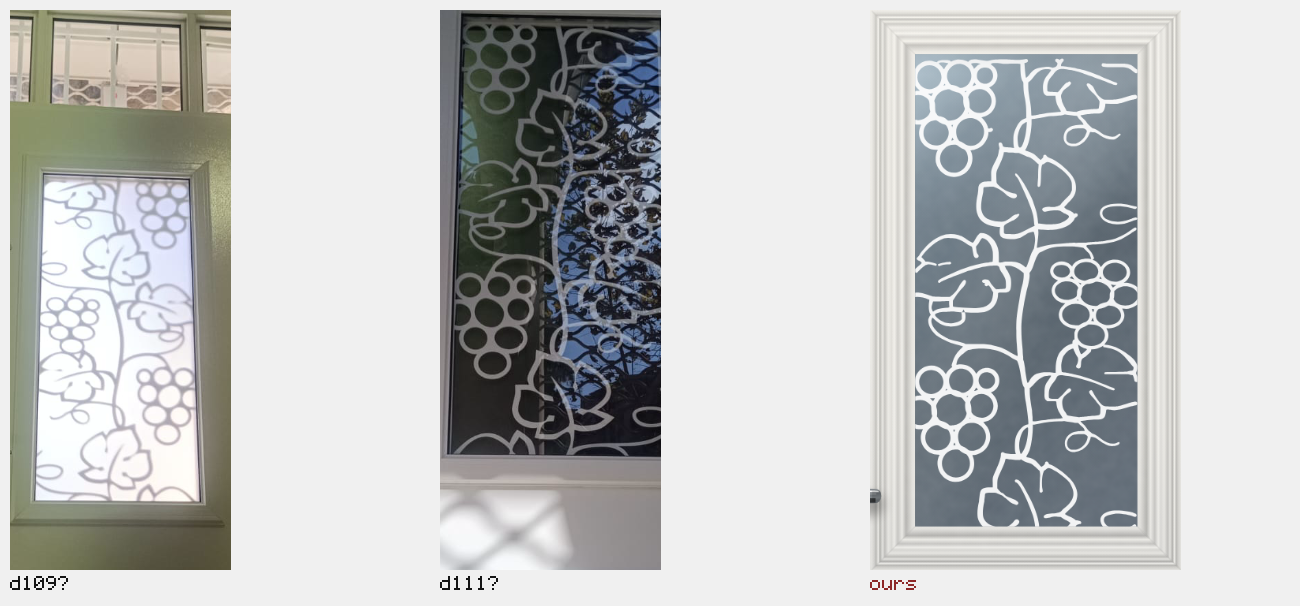
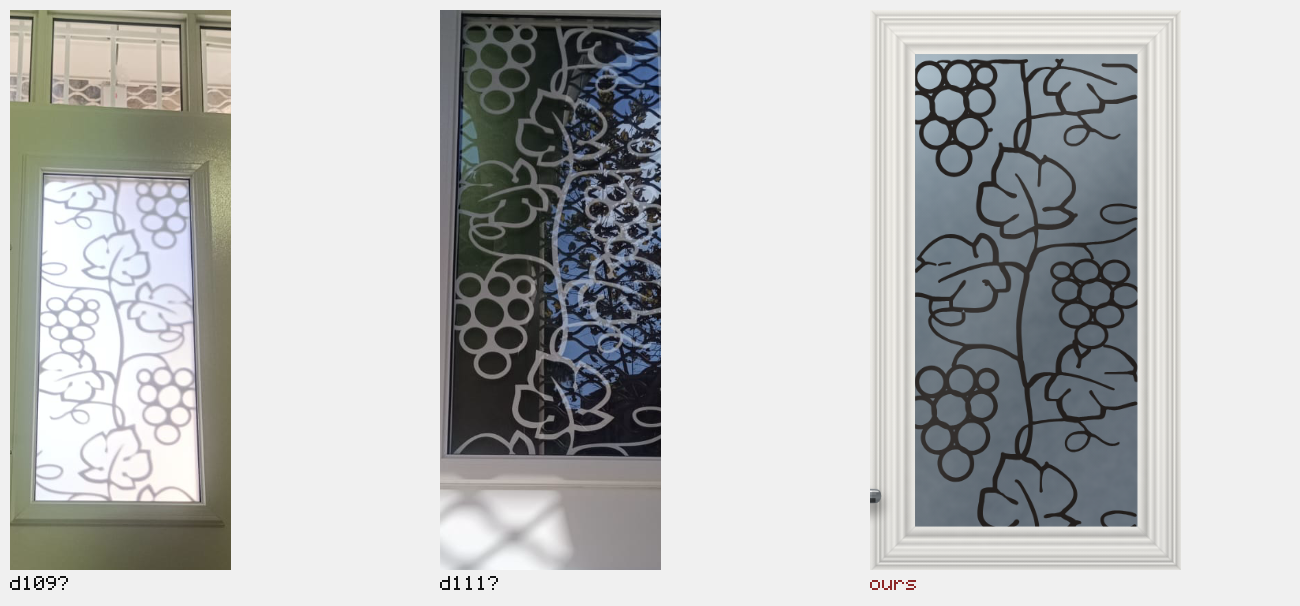
The navigator's nine marks are the things their steps sell
The owner's son: "draw better versions of them that really represent the
actual content of the section and not some random circles and squares."
Six of the nine were a rectangle with something inside it, and at 21 px a
rectangle with something inside is a rectangle.

Now, each the object the step is about:
  fit     a door standing ajar in its opening, on the floor
  colour  a fan deck of swatches on its rivet (choosing off a chart)
  lock    the lever on its backplate, the keyway under it
  pz      a hinge with a glint - the finish reaches hinges and lever
  face    a door-proportioned leaf with a panel over two strips, and a knob
  glass   a pane at a slant with glare and a vine leaf
  grip    the bar on two standoffs off the door's edge, with its length
  mk      the frame alone, with its thickness, open at the foot
  sum     the order sheet with a tick

How the drafts failed, measured with the audit's own pairwise raster (floor
0.50), not by eye: the first draft had face ~ glass 0.45 and glass ~ sum
0.47 - three tall rectangles at one place, whatever was inside them. A
square pane then met fit at 0.48; a receipt outline for the summary met
face at 0.51. What fixed it was the OUTLINE: the pane went to a slant, the
only one on the rail, and face narrowed to a door's proportion (0.6 wide
read as a tablet) and grew a knob. Also cut on critique: a second "+"
sparkle on the hinge (read as "add"), screw dots on its leaf (one pixel),
[…]

Changed region(s): [[0.7077, 0.0891, 0.8923, 0.8614]]

diff --git a/js/icons.js b/js/icons.js
@@ -64,52 +64,71 @@
             a grid at 21 px is `mk`'s nested pair with more lines in it.
    Worst pair after: 0.63. The comparison is asserted in `tools/audit.mjs`;
    it is the only instrument that can see this class of fault. */
+/* ⚠ ALL NINE REDRAWN ON 27.9.2026, on the owner's son's word: *"draw better
+   versions of them that really represent the actual content of the section
+   and not some random circles and squares."* Six of the nine were a rectangle
+   with something inside, and at 21 px a rectangle with something inside is a
+   rectangle. Each mark is now the THING the step sells, drawn the way a
+   stranger names it:
+     fit     a door standing ajar in its opening, on the floor — the door
+             itself, and which way it opens (the step's two questions)
+     colour  a fan deck of swatches on its rivet: choosing a shade off a chart,
+             which is what the step is (the drop said "paint", not "choose")
+     lock    the lever on its backplate with the keyway under it — the lock
+             furniture as it stands on the door
+     pz      a hinge with a glint: the finish reaches the hinges and the lever,
+             and the glint is what says METAL FINISH rather than "a hinge"
+     face    a door with a panel over two strips — panels or metal strips
+     glass   a pane seen at a slant, with a glare and a leaf of the vine design
+             on it — glass, and what goes on it
+     grip    the pull bar on its two standoffs off the door's edge, with the
+             arrow of its length (the step asks the length)
+     mk      the frame alone, with its thickness, standing on the floor: the
+             משקוף without the door in it
+     sum     the order sheet, folded corner and a tick: the door you built
+   ⚠ HOW THE DRAFTS FAILED, measured with the audit's own pairwise raster
+   (below, floor 0.50): the first draft had face ~ glass 0.45 and glass ~ sum
+   0.47 — three tall rectangles in one place, whatever was inside them; a
+   square pane then met fit at 0.48, and a receipt outline for sum met face at
+   0.51. What fixed it was OUTLINE, not content: the pane went to a slant (no
+   other mark has one), face narrowed to a door's proportion (0.48, the leaf's
+   is 0.42) and grew a knob, because at 0.6 wide it read as a tablet. Worst
+   pair after: fit ~ mk 0.60 (the old set's was 0.63; both over the floor).
+   Only path, circle and rect — the audit re-draws these with
+   `vector-effect` added to exactly those three. */
 export const SECTION_ICON = {
-  /* HOW BIG THE OPENING IS: the ruler every joiner's drawing uses. It was a
-     door with the arrow underneath, and the door was the whole problem — at
-     21 px it was the same rectangle as the summary's page. */
-  fit:    '<path d="M4.4 4.4v15.2M19.6 4.4v15.2"/><path d="M4.4 12h15.2"/>'
-        + '<path d="m7.4 9.4-3 2.6 3 2.6M16.6 9.4l3 2.6-3 2.6"/>',
-  /* THE FRAME: the casing outside, the opening inside, drawn as one section
-     through the head. Two nested rectangles say "a frame round a hole"; a
-     cross says nothing. Shared with `SPEC_ICON.mashkof`. */
-  mk:     '<path d="M3.2 4.6h17.6v14.8H3.2Z"/><path d="M7.4 8.8h9.2v10.6H7.4Z"/>',
-  /* a paint drop. Shared with `SPEC_ICON.colour` since 15.9 */
-  colour: '<path d="M12 3.4 6.6 10a7 7 0 1 0 10.8 0Z"/><path d="M5.4 14.6h13.2"/>',
-  /* a panelled face */
-  face:   '<path d="M5 3.6h14v16.8H5Z"/><path d="M8.4 6.6h7.2v4.4H8.4Z"/>'
-        + '<path d="M8.4 13.6h7.2v3.8H8.4Z"/>',
-  /* A GLAZED LIGHT: a transom across the head and two streaks of reflection
-     below it. The streaks are what say GLASS — the four-pane grid this used to
-     draw said "a divided rectangle", which at 21 px is `mk` with more lines.
-     ⚠ The sill was dropped, not moved: a wide rule under a landscape pane is a
-     laptop and a narrow one is a monitor stand. Both were tried and looked at,
-     and both were worse than no rule at all. */
-  glass:  '<path d="M4.4 5.4h15.2v11.2H4.4Z"/><path d="M4.4 8.6h15.2"/>'
-        + '<path d="M10 10.4 7.4 14M15.4 10.4 11.6 15"/>',
-  /* THE PULL BAR: the leaf's edge on the left, the bar standing off it on two
-     brackets. The bar has to be beside something for the standoffs to read as
-     standoffs — on its own it was a line with two ticks. */
-  grip:   '<path d="M4.4 3.6h5v16.8h-5"/><path d="M15.8 5.2v13.6"/>'
-        + '<path d="M9.4 8h6.4M9.4 16h6.4"/>',
-  /* THE LOCK: a keyhole. A round case over a tapered slot is the one mark on
-     this page a stranger names without being told, and the step it heads is
-     the lock furniture. */
-  lock:   '<path d="M12 4.4a7.4 7.4 0 0 0-7.4 7.4v7.8h14.8v-7.8A7.4 7.4 0 0 0 12 4.4Z"/>'
-        + '<path d="M12 9.4a2 2 0 1 0 0 4 2 2 0 0 0 0-4Z"/>'
-        + '<path d="m11 13.2-.8 3.6h3.6l-.8-3.6"/>',
-  /* THE FINISH: a lever handle, with a highlight along its shank saying the
-     choice is which METAL. Two concentric circles read as a paint swatch, and
-     this is the one step whose subject is not colour but material.
-     Shared with `SPEC_ICON.pirzul`. */
-  pz:     '<path d="M14.6 12a2.6 2.6 0 1 0-5.2 0 2.6 2.6 0 0 0 5.2 0Z"/>'
-        + '<path d="M14.6 12h4.8a1.8 1.8 0 0 1 0 3.6"/>'
-        + '<path d="M9.4 12H4.6"/><path d="M6.8 8.6h2.4"/>',
-  /* A SHEET OF PAPER WITH FIGURES ON IT, and the folded corner is the whole
-     point of it: a plain rectangle with three lines inside was the same
-     picture as the door on the first step. */
-  sum:    '<path d="M6.6 3.6h7.4l3.4 3.4v13.4H6.6Z"/><path d="M14 3.6v3.4h3.4"/>'
-        + '<path d="M9.4 11.4h5.2M9.4 14.6h5.2M9.4 17.8h3"/>',
+  fit:    '<path d="M4.6 20.6V3.4h14.8v17.2"/><path d="M2.8 20.6h18.4"/>'
+        + '<path d="M4.6 3.4 12.4 5.6v13L4.6 20.6Z"/><path d="M10.4 12.2h.01"/>',
+  /* the front swatch whole, the two behind it only where they show */
+  colour: '<path d="M9.7 17.9V5.9a2.3 2.3 0 0 1 4.6 0v12a2.3 2.3 0 0 1-4.6 0Z"/>'
+        + '<path d="M9.7 9.6h4.6M9.7 13.4h4.6"/><path d="M12 17.9h.01"/>'
+        + '<path d="M9.8 20.2 2.3 9.3a2.3 2.3 0 0 1 3.8-2.6l3.6 5.4"/>'
+        + '<path d="M14.2 20.2l7.5-10.9a2.3 2.3 0 0 0-3.8-2.6l-3.6 5.4"/>',
+  lock:   '<rect x="5.6" y="3.2" width="5.8" height="17.6" rx="2.9"/>'
+        + '<path d="M11.4 6.4h7a1.7 1.7 0 0 1 0 3.4h-7"/>'
+        + '<circle cx="8.5" cy="14.2" r="1.2"/><path d="M8.5 15.4v2.4"/>',
+  /* ⚠ the glint is ONE four-point star. A second, smaller "+" beside it read
+     as "add" at 21 px, and screw dots on the leaf were single pixels. */
+  pz:     '<path d="M9.4 5.4H4.2v13.2h5.2"/><rect x="9.4" y="3.4" width="3.2" height="17.2" rx="1.6"/>'
+        + '<path d="M9.4 9.4h3.2M9.4 14.6h3.2"/>'
+        + '<path d="M17.8 7.4c.4 3.2 1.6 4.4 4.4 4.6-2.8.2-4 1.4-4.4 4.6-.4-3.2-1.6-4.4-4.4-4.6 2.8-.2 4-1.4 4.4-4.6Z"/>',
+  face:   '<rect x="7.2" y="2.4" width="9.6" height="19.2" rx=".6"/><path d="M9.6 5h4.8v6.2H9.6Z"/>'
+        + '<path d="M9.6 15.2h4.8M9.6 18.4h4.8"/><path d="M14.6 13.2h.01"/>',
+  /* ⚠ A SLANT ON A SQUARE-ON PAGE, deliberately and only here: the rule in
+     CLAUDE.md §4 is about the door's drawing. A glazed pane seen square-on is
+     a rectangle, and the rail already had five. */
+  glass:  '<path d="M8.2 3.4h12.4l-4.8 17.2H3.4Z"/>'
+        + '<path d="M16.4 6.6l-3.4 3.8M16 10.8l-1.6 1.8"/>'
+        + '<path d="M7.4 17.4c1.2-.2 2.2-1.2 2.6-2.8-1.6-.2-2.6.9-2.6 2.8Z"/>',
+  grip:   '<rect x="3.2" y="2.8" width="2.2" height="18.4"/><path d="M5.4 6.8h6.2M5.4 17.2h6.2"/>'
+        + '<rect x="11.6" y="4.2" width="3" height="15.6" rx="1.5"/>'
+        + '<path d="M19.6 4.2v15.6M18 5.8l1.6-1.6 1.6 1.6M18 18.2l1.6 1.6 1.6-1.6"/>',
+  /* open at the foot: two nested CLOSED rectangles, which this was, are a
+     picture frame or a monitor */
+  mk:     '<path d="M3.4 20.6V3.2h17.2v17.4"/><path d="M7.8 20.6V7.6h8.4v13"/>'
+        + '<path d="M1.8 20.6h20.4"/>',
+  sum:    '<path d="M5.4 3h8.8l4.4 4.4V21H5.4Z"/><path d="M14.2 3v4.4h4.4"/>'
+        + '<path d="m8.4 14 2.4 2.6 4.8-5.4"/>',
 };
 
 export function sectionIcon(key) {
@@ -160,7 +179,10 @@ export function sectionIcon(key) {
    same thing better than half a filled disc and moved it away from `window`.
    Worst pair before 0.43, after 0.55. */
 export const SPEC_ICON = {
-  colour:  '<path d="M12 3.4 6.6 10a7 7 0 1 0 10.8 0Z"/><path d="M5.4 14.6h13.2"/>',
+  /* ⚠ FIVE ROWS SHARE THEIR STEP'S MARK BY REFERENCE, 27.9 — one idea, one
+     mark, and a reference cannot come apart the way two copies of a string
+     did. Worst spec pair after: colour ~ grille 0.54 at 18 px. */
+  colour:  SECTION_ICON.colour,
   window:  '<path d="M4.6 5h14.8v11.4H4.6Z"/><path d="M12 5v11.4M4.6 10.7h14.8"/>',
   glazing: '<path d="M3.4 6.2h7.2v11.6H3.4Z"/><path d="M13.4 6.2h7.2v11.6h-7.2Z"/>',
   /* the ironwork itself, not the pane it sits in */
@@ -170,12 +192,9 @@ export const SPEC_ICON = {
   /* the horizontal bow, 26.9.2026: a bar lying across two posts — the handle's
      mark turned on its side would be the handle's mark */
   grab:    '<path d="M4.4 8.6h15.2v3.4H4.4Z"/><path d="M8 12v5.4M16 12v5.4"/>',
-  /* a key going into the case */
-  lockset: '<circle cx="7.4" cy="12" r="2.4"/><path d="M9.8 12h3.8"/>'
-         + '<path d="M13.6 9.2h4.4v5.6h-4.4Z"/>',
+  lockset: SECTION_ICON.lock,
   detail:  '<path d="M5.2 4.4h13.6v15.2H5.2Z"/><path d="M8.4 7.6h7.2v8.8H8.4Z"/>',
-  size:    '<path d="M4.4 4.4v15.2M19.6 4.4v15.2"/><path d="M4.4 12h15.2"/>'
-         + '<path d="m7.4 9.4-3 2.6 3 2.6M16.6 9.4l3 2.6-3 2.6"/>',
+  size:    SECTION_ICON.fit,
   handing: '<path d="M6 3.8h12v16.4H6Z"/><path d="m14.6 8.6 3.4 3.4-3.4 3.4"/>',
   /* ⚠ FOUR ROWS HAD NO MARK, AND THE GAP WAS VISIBLE. `specRows` can return
      twelve keys and this table held nine, so the DEFAULT door — eight rows —
@@ -187,9 +206,8 @@ export const SPEC_ICON = {
      Drawn to match their own step's circle rather than invented afresh: the
      frame is the same nested pair, the פרזול the same lever. One idea, one
      mark, wherever it appears. */
-  mashkof: '<path d="M3.4 5h17.2v14H3.4Z"/><path d="M7.4 9h9.2v10H7.4Z"/>',
-  pirzul:  '<path d="M14.4 12a2.4 2.4 0 1 0-4.8 0 2.4 2.4 0 0 0 4.8 0Z"/>'
-         + '<path d="M14.4 12h4.6a1.7 1.7 0 0 1 0 3.4"/><path d="M9.6 12H5"/>',
+  mashkof: SECTION_ICON.mk,
+  pirzul:  SECTION_ICON.pz,
   stripes: '<path d="M4.6 7.4h14.8M4.6 12h14.8M4.6 16.6h14.8"/>',
   /* the קודן's own case — the one of the two a stranger names */
   speciallock: '<rect x="7.4" y="3.6" width="9.2" height="16.8" rx="4.6"/>'

diff --git a/assets/bundle.js b/assets/bundle.js
@@ -8800,42 +8800,23 @@ ${body}
 
   // js/icons.js
   var SECTION_ICON = {
-    /* HOW BIG THE OPENING IS: the ruler every joiner's drawing uses. It was a
-       door with the arrow underneath, and the door was the whole problem — at
-       21 px it was the same rectangle as the summary's page. */
-    fit: '<path d="M4.4 4.4v15.2M19.6 4.4v15.2"/><path d="M4.4 12h15.2"/><path d="m7.4 9.4-3 2.6 3 2.6M16.6 9.4l3 2.6-3 2.6"/>',
-    /* THE FRAME: the casing outside, the opening inside, drawn as one section
-       through the head. Two nested rectangles say "a frame round a hole"; a
-       cross says nothing. Shared with `SPEC_ICON.mashkof`. */
-    mk: '<path d="M3.2 4.6h17.6v14.8H3.2Z"/><path d="M7.4 8.8h9.2v10.6H7.4Z"/>',
-    /* a paint drop. Shared with `SPEC_ICON.colour` since 15.9 */
-    colour: '<path d="M12 3.4 6.6 10a7 7 0 1 0 10.8 0Z"/><path d="M5.4 14.6h13.2"/>',
-    /* a panelled face */
-    face: '<path d="M5 3.6h14v16.8H5Z"/><path d="M8.4 6.6h7.2v4.4H8.4Z"/><path d="M8.4 13.6h7.2v3.8H8.4Z"/>',
-    /* A GLAZED LIGHT: a transom across the head and two streaks of reflection
-       below it. The streaks are what say GLASS — the four-pane grid this used to
-       draw said "a divided rectangle", which at 21 px is `mk` with more lines.
-       ⚠ The sill was dropped, not moved: a wide rule under a landscape pane is a
-       laptop and a narrow one is a monitor stand. Both were tried and looked at,
-       and both were worse than no rule at all. */
-    glass: '<path d="M4.4 5.4h15.2v11.2H4.4Z"/><path d="M4.4 8.6h15.2"/><path d="M10 10.4 7.4 14M15.4 10.4 11.6 15"/>',
-    /* THE PULL BAR: the leaf's edge on the left, the bar standing off it on two
-       brackets. The bar has to be beside something for the standoffs to read as
-       standoffs — on its own it was a line with two ticks. */
-    grip: '<path d="M4.4 3.6h5v16.8h-5"/><path d="M15.8 5.2v13.6"/><path d="M9.4 8h6.4M9.4 16h6.4"/>',
-    /* THE LOCK: a keyhole. A round case over a tapered slot is the one mark on
-       this page a stranger names without being told, and the step it heads is
-       the lock furniture. */
-    lock: '<path d="M12 4.4a7.4 7.4 0 0 0-7.4 7.4v7.8h14.8v-7.8A7.4 7.4 0 0 0 12 4.4Z"/><path d="M12 9.4a2 2 0 1 0 0 4 2 2 0 0 0 0-4Z"/><path d="m11 13.2-.8 3.6h3.6l-.8-3.6"/>',
-    /* THE FINISH: a lever handle, with a highlight along its shank saying the
-       choice is which METAL. Two concentric circles read as a paint swatch, and
-       this is the one step whose subject is not colour but material.
-       Shared with `SPEC_ICON.pirzul`. */
-    pz: '<path d="M14.6 12a2.6 2.6 0 1 0-5.2 0 2.6 2.6 0 0 0 5.2 0Z"/><path d="M14.6 12h4.8a1.8 1.8 0 0 1 0 3.6"/><path d="M9.4 12H4.6"/><path d="M6.8 8.6h2.4"/>',
-    /* A SHEET OF PAPER WITH FIGURES ON IT, and the folded corner is the whole
-       point of it: a plain rectangle with three lines inside was the same
-       picture as the door on the first step. */
-    sum: '<path d="M6.6 3.6h7.4l3.4 3.4v13.4H6.6Z"/><path d="M14 3.6v3.4h3.4"/><path d="M9.4 11.4h5.2M9.4 14.6h5.2M9.4 17.8h3"/>'
+    fit: '<path d="M4.6 20.6V3.4h14.8v17.2"/><path d="M2.8 20.6h18.4"/><path d="M4.6 3.4 12.4 5.6v13L4.6 20.6Z"/><path d="M10.4 12.2h.01"/>',
+    /* the front swatch whole, the two behind it only where they show */
+    colour: '<path d="M9.7 17.9V5.9a2.3 2.3 0 0 1 4.6 0v12a2.3 2.3 0 0 1-4.6 0Z"/><path d="M9.7 9.6h4.6M9.7 13.4h4.6"/><path d="M12 17.9h.01"/><path d="M9.8 20.2 2.3 9.3a2.3 2.3 0 0 1 3.8-2.6l3.6 5.4"/><path d="M14.2 20.2l7.5-10.9a2.3 2.3 0 0 0-3.8-2.6l-3.6 5.4"/>',
+    lock: '<rect x="5.6" y="3.2" width="5.8" height="17.6" rx="2.9"/><path d="M11.4 6.4h7a1.7 1.7 0 0 1 0 3.4h-7"/><circle cx="8.5" cy="14.2" r="1.2"/><path d="M8.5 15.4v2.4"/>',
+    /* ⚠ the glint is ONE four-point star. A second, smaller "+" beside it read
+       as "add" at 21 px, and screw dots on the leaf were single pixels. */
+    pz: '<path d="M9.4 5.4H4.2v13.2h5.2"/><rect x="9.4" y="3.4" width="3.2" height="17.2" rx="1.6"/><path d="M9.4 9.4h3.2M9.4 14.6h3.2"/><path d="M17.8 7.4c.4 3.2 1.6 4.4 4.4 4.6-2.8.2-4 1.4-4.4 4.6-.4-3.2-1.6-4.4-4.4-4.6 2.8-.2 4-1.4 4.4-4.6Z"/>',
+    face: '<rect x="7.2" y="2.4" width="9.6" height="19.2" rx=".6"/><path d="M9.6 5h4.8v6.2H9.6Z"/><path d="M9.6 15.2h4.8M9.6 18.4h4.8"/><path d="M14.6 13.2h.01"/>',
+    /* ⚠ A SLANT ON A SQUARE-ON PAGE, deliberately and only here: the rule in
+       CLAUDE.md §4 is about the door's drawing. A glazed pane seen square-on is
+       a rectangle, and the rail already had five. */
+    glass: '<path d="M8.2 3.4h12.4l-4.8 17.2H3.4Z"/><path d="M16.4 6.6l-3.4 3.8M16 10.8l-1.6 1.8"/><path d="M7.4 17.4c1.2-.2 2.2-1.2 2.6-2.8-1.6-.2-2.6.9-2.6 2.8Z"/>',
+    grip: '<rect x="3.2" y="2.8" width="2.2" height="18.4"/><path d="M5.4 6.8h6.2M5.4 17.2h6.2"/><rect x="11.6" y="4.2" width="3" height="15.6" rx="1.5"/><path d="M19.6 4.2v15.6M18 5.8l1.6-1.6 1.6 1.6M18 18.2l1.6 1.6 1.6-1.6"/>',
+    /* open at the foot: two nested CLOSED rectangles, which this was, are a
+       picture frame or a monitor */
+    mk: '<path d="M3.4 20.6V3.2h17.2v17.4"/><path d="M7.8 20.6V7.6h8.4v13"/><path d="M1.8 20.6h20.4"/>',
+    sum: '<path d="M5.4 3h8.8l4.4 4.4V21H5.4Z"/><path d="M14.2 3v4.4h4.4"/><path d="m8.4 14 2.4 2.6 4.8-5.4"/>'
   };
   function sectionIcon(key) {
     if (!Object.prototype.hasOwnProperty.call(SECTION_ICON, key)) {
@@ -8844,7 +8825,10 @@ ${body}
     return `<svg class="steps__g" viewBox="0 0 24 24" aria-hidden="true">${SECTION_ICON[key]}</svg>`;
   }
   var SPEC_ICON = {
-    colour: '<path d="M12 3.4 6.6 10a7 7 0 1 0 10.8 0Z"/><path d="M5.4 14.6h13.2"/>',
+    /* ⚠ FIVE ROWS SHARE THEIR STEP'S MARK BY REFERENCE, 27.9 — one idea, one
+       mark, and a reference cannot come apart the way two copies of a string
+       did. Worst spec pair after: colour ~ grille 0.54 at 18 px. */
+    colour: SECTION_ICON.colour,
     window: '<path d="M4.6 5h14.8v11.4H4.6Z"/><path d="M12 5v11.4M4.6 10.7h14.8"/>',
     glazing: '<path d="M3.4 6.2h7.2v11.6H3.4Z"/><path d="M13.4 6.2h7.2v11.6h-7.2Z"/>',
     /* the ironwork itself, not the pane it sits in */
@@ -8853,10 +8837,9 @@ ${body}
     /* the horizontal bow, 26.9.2026: a bar lying across two posts — the handle's
        mark turned on its side would be the handle's mark */
     grab: '<path d="M4.4 8.6h15.2v3.4H4.4Z"/><path d="M8 12v5.4M16 12v5.4"/>',
-    /* a key going into the case */
-    lockset: '<circle cx="7.4" cy="12" r="2.4"/><path d="M9.8 12h3.8"/><path d="M13.6 9.2h4.4v5.6h-4.4Z"/>',
+    lockset: SECTION_ICON.lock,
     detail: '<path d="M5.2 4.4h13.6v15.2H5.2Z"/><path d="M8.4 7.6h7.2v8.8H8.4Z"/>',
-    size: '<path d="M4.4 4.4v15.2M19.6 4.4v15.2"/><path d="M4.4 12h15.2"/><path d="m7.4 9.4-3 2.6 3 2.6M16.6 9.4l3 2.6-3 2.6"/>',
+    size: SECTION_ICON.fit,
     handing: '<path d="M6 3.8h12v16.4H6Z"/><path d="m14.6 8.6 3.4 3.4-3.4 3.4"/>',
     /* ⚠ FOUR ROWS HAD NO MARK, AND THE GAP WAS VISIBLE. `specRows` can return
        twelve keys and this table held nine, so the DEFAULT door — eight rows —
@@ -8868,8 +8851,8 @@ ${body}
        Drawn to match their own step's circle rather than invented afresh: the
        frame is the same nested pair, the פרזול the same lever. One idea, one
        mark, wherever it appears. */
-    mashkof: '<path d="M3.4 5h17.2v14H3.4Z"/><path d="M7.4 9h9.2v10H7.4Z"/>',
-    pirzul: '<path d="M14.4 12a2.4 2.4 0 1 0-4.8 0 2.4 2.4 0 0 0 4.8 0Z"/><path d="M14.4 12h4.6a1.7 1.7 0 0 1 0 3.4"/><path d="M9.6 12H5"/>',
+    mashkof: SECTION_ICON.mk,
+    pirzul: SECTION_ICON.pz,
     stripes: '<path d="M4.6 7.4h14.8M4.6 12h14.8M4.6 16.6h14.8"/>',
     /* the קודן's own case — the one of the two a stranger names */
     speciallock: '<rect x="7.4" y="3.6" width="9.2" height="16.8" rx="4.6"/><path d="M10.6 8.6h.01M13.4 8.6h.01M10.6 12.2h.01M13.4 12.2h.01"/><circle cx="12" cy="16.6" r="1.6"/>'

diff --git a/index.html b/index.html
@@ -655,7 +655,7 @@
       css.textContent.replace('<style>', '<style id="down-css-live">'));
   }, 4000);
 </script>
-<script src="assets/bundle.js?v=18bb3078"></script>
+<script src="assets/bundle.js?v=0792d920"></script>
 <!-- ⚠ THE BUNDLE ITSELF NOT ARRIVING is the one failure the other two guards
      cannot see: scripting is ON, so `<noscript>` is inert, and no handler was
      ever registered, so `fail()` never runs. A 404 after a bad deploy, a

diff --git a/HISTORY.md b/HISTORY.md
@@ -26,6 +26,38 @@ oldest lines move to the top of the "moved" section.
 
 ## Long-form entries since 27.9.2026 — newest first
 
+- **27.9 — THE NAVIGATOR'S NINE MARKS ARE THE THINGS THEIR STEPS SELL.**
+  The owner's son: *"look at each of the icons that represent the sections
+  above … draw better versions of them that really represent the actual
+  content of the section and not some random circles and squares … find flaws
+  in your design and critique it as much as you can."*
+  · **What each is now** (`js/icons.js`, `SECTION_ICON`): fit — a door ajar in
+    its opening on the floor; colour — a fan deck of swatches on its rivet;
+    lock — the lever on its backplate with the keyway; pz — a hinge with a
+    glint; face — a door-proportioned leaf with a panel over two strips and a
+    knob; glass — a pane at a slant with glare and a vine leaf; grip — the bar
+    on two standoffs off the door's edge with its length arrow; mk — the frame
+    alone, with its thickness, open at the foot; sum — the order sheet with a
+    tick. Six of the nine had been a rectangle with something inside.
+  · **The critique, measured with the audit's own pairwise raster** (floor
+    0.50) rather than by eye. Draft one: face ~ glass 0.45, glass ~ sum 0.47 —
+    three tall rectangles at one place. A square pane: fit ~ glass 0.48. A
+    receipt outline for sum: face ~ sum 0.51. What fixed it was OUTLINE, not
+    content: the pane went to a slant (the only one on the rail; the
+    square-on rule is the door drawing's, not an icon's), face narrowed to
+    0.48 wide (at 0.6 it read as a tablet) and grew a knob. Cut by eye: a
+    second "+" glint (read as "add"), screw dots on the hinge (one pixel), an
+    open-bottomed front swatch (a tulip), a landscape framed pane (a photo
+    frame). Worst nav pair fit ~ mk 0.60 (old set 0.63), ink 23–38%.
+  · **Five spec rows share their step's mark by reference** — colour, size,
+    lockset, mashkof, pirzul — and `test/units.mjs` asserts all five pairs;
+    three had been promised by a comment and asserted nowhere. Falsified: one
+    character of drift in `pirzul` fails it. Worst spec pair colour ~ grille
+    0.54. The window row keeps its four-pane mark: it names WHICH window, and
+    the design has its own row.
+  · **Gates:** test 7,483,874 / 0; audit clean; sheets — no bare or lockset
+    sheet moved, stamps and `shot` only.
+
 - **27.9 — EVERY WINDOW DESIGN COMES IN BLACK OR THE DOOR'S COLOUR, ALL SEVEN.**
   The owner's son: *"Revert the change with the color of the design, it does
   follow the color of the door, so there should be 2 options for each design,

diff --git a/CLAUDE.md b/CLAUDE.md
@@ -129,6 +129,14 @@ Older and long-form: **`HISTORY.md`** — the archive verbatim to 26.9.2026, and
 since 27.9 each change's long-form entry, written in the same commit as its
 lines here. Dates are the day of the change.
 
+- **27.9** The nine navigator marks redrawn as what each step sells — *"really
+  represent the actual content of the section and not some random circles and
+  squares"*: ajar door, swatch fan, lever on its plate, hinge with a glint,
+  panel-and-strips door, slanted pane, bar with its length, the frame alone,
+  the sheet with a tick (`js/icons.js`). Drafts failed the audit's pairwise
+  raster (face~glass 0.45, glass~sum 0.47) until the OUTLINES differed; worst
+  pair now fit~mk 0.60. Five spec rows share their step's mark by reference,
+  asserted. No bare sheet moved. Long form: `HISTORY.md`.
 - **27.9** Every window design in black OR the door's colour, all seven — the
   owner's son reversing his own 26.9 note (`8e1905d` reverted whole, the outline
   removal kept): base black, `-light` twin the paint; `circles-light`,
@@ -1103,7 +1111,7 @@ are not in `VIEWS`:
   no-photo (drawn room still painting), a wrong code says the code was not
   recognised, the language switch leaves no Hebrew behind, the order sheet
   prints on **one page** (real PDFs at 703 px, counting pages).
-- **pictures** — the navigator's nine marks and the spec's thirteen, rasterised
+- **pictures** — the navigator's nine marks and the spec's fourteen, rasterised
   at shipped size and compared pairwise (floor 0.50); the stripe pills; the
   gallery grid never one column, no tile under 132 px; the photographed floor
   and sconces measured in pixels against the drawn ones.

diff --git a/screenshots/corpus-links.md b/screenshots/corpus-links.md
@@ -28,7 +28,7 @@
 | d092 | ₪6950 | `?v=25&c=rb-6219d&w=rect&g=none&n=none&k=knobplate&x=nospecial&m=mk-std&pz=pz-nickel&hf=hf-nickel&bl=nobell&ey=nopeep&gb=nograb&hl=0&sp=0&d=plain&s=standard&h=left-in` |
 | d097 | ₪7500 | `?v=25&c=rb-7080d&w=rect&g=scroll&n=none&k=coral&x=nospecial&m=mk-std&pz=pz-nickel&hf=hf-nickel&bl=nobell&ey=nopeep&gb=nograb&hl=0&sp=0&d=plain&s=standard&h=left-in` |
 | d099 | ₪7500 | `?v=25&c=rb-7126d&w=rect&g=scroll&n=none&k=coral&x=nospecial&m=mk-std&pz=pz-nickel&hf=hf-nickel&bl=nobell&ey=nopeep&gb=nograb&hl=0&sp=0&d=plain&s=standard&h=right-in` |
-| d106 | ₪8500 | `?v=25&c=rb-7080d&w=rect&g=circles&n=none&k=plate&x=nospecial&m=mk-std&pz=pz-nickel&hf=hf-nickel&bl=nobell&ey=nopeep&gb=nograb&hl=0&sp=0&d=plain&s=standard&h=left-in` |
+| d106 | ₪8500 | `?v=25&c=rb-7080d&w=rect&g=circles-light&n=none&k=plate&x=nospecial&m=mk-std&pz=pz-nickel&hf=hf-nickel&bl=nobell&ey=nopeep&gb=nograb&hl=0&sp=0&d=plain&s=standard&h=left-in` |
 | d108 | ₪8800 | `?v=25&c=rb-7080d&w=rect&g=none&n=none&k=plate&x=nospecial&m=mk-std&pz=pz-nickel&hf=hf-nickel&bl=nobell&ey=nopeep&gb=nograb&hl=0&sp=0&d=plain&s=standard&h=right-in` |
 | d113 | ₪9500 | `?v=25&c=rb-7080d&w=strip&g=grid&n=idan&k=digital&x=nospecial&m=mk-std&pz=pz-nickel&hf=hf-black&bl=nobell&ey=nopeep&gb=nograb&hl=0&sp=0&d=plain&s=standard&h=right-in` |
 | d116 | ₪13900 | `?v=25&c=rb-7080d&w=rect&g=scroll&n=none&k=coral&x=nospecial&m=mk-std&pz=pz-nickel&hf=hf-nickel&bl=nobell&ey=nopeep&gb=nograb&hl=0&sp=0&d=plain&s=standard&h=right-in` |
